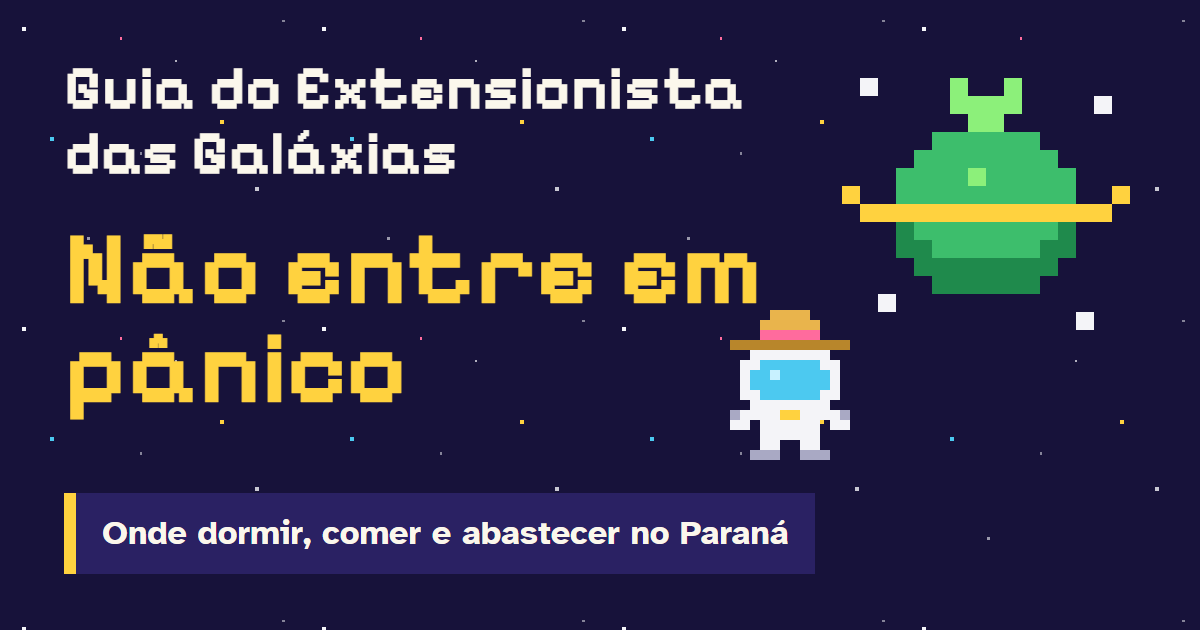
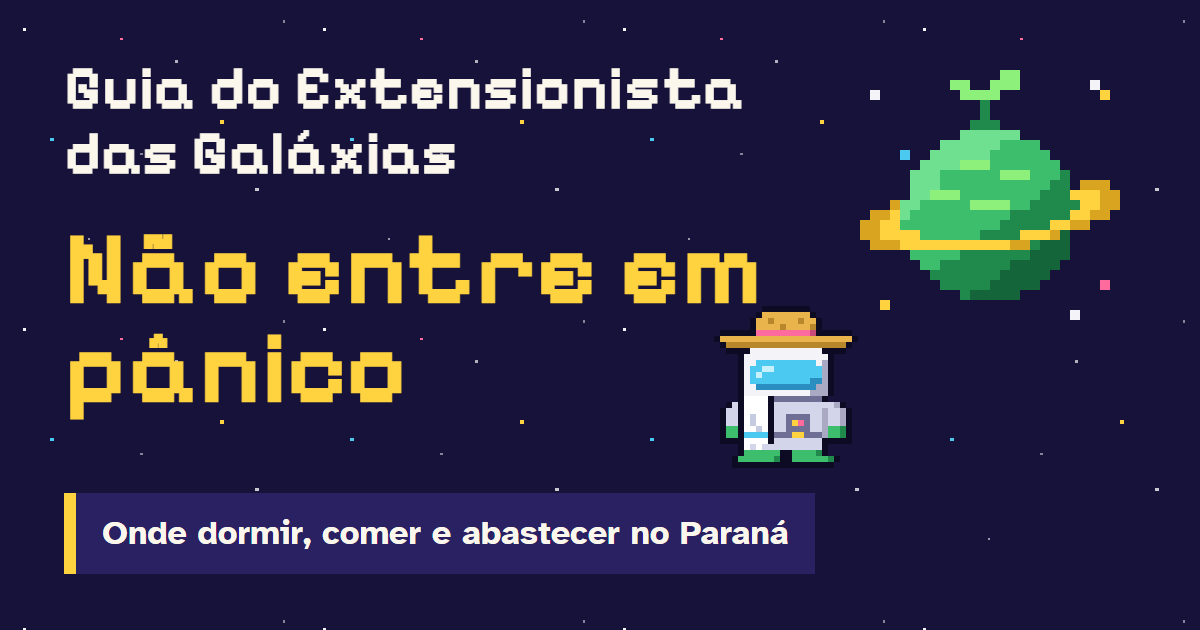
feat: pixel art em grade maior e toalha branca no ombro do extensionista

diff --git a/build/og.html b/build/og.html
@@ -13,8 +13,8 @@
   body:not(.icone) .so-icone { display: none; }
   .so-icone img { width: 512px; height: 512px; display: block; }
   .og { position: absolute; inset: 0; padding: 56px 64px; }
-  .planeta-og { position: absolute; right: 70px; top: 60px; width: 288px; height: 288px; }
-  .mascote-og { position: absolute; right: 330px; top: 300px; width: 160px; height: 160px; }
+  .planeta-og { position: absolute; right: 70px; top: 60px; width: 280px; height: 280px; }
+  .mascote-og { position: absolute; right: 330px; top: 300px; width: 168px; height: 168px; }
   h1 { margin: 0; font-family: "Pixelify Sans"; font-size: 62px; line-height: 1.05; color: #fbf7ec; max-width: 760px; }
   .grande { margin: 34px 0 0; font-family: "Pixelify Sans"; font-size: 104px; line-height: 0.95; color: #ffd23f; max-width: 700px; }
   .lema-og { position: absolute; left: 64px; bottom: 56px; margin: 0; font-family: "Atkinson Hyperlegible"; font-weight: 700; font-size: 34px; color: #fbf7ec; background: #2a2163; border-left: 12px solid #ffd23f; padding: 16px 26px; }

diff --git a/style.css b/style.css
@@ -164,7 +164,7 @@ dialog fieldset.estrelas { display: flex; gap: 4px; border: 0; padding: 0; }
 .lugar blockquote { margin: 6px 0; padding: 6px 10px; border-left: var(--px) solid var(--ceu); }
 
 .vazio { background: var(--nebulosa); padding: 20px 16px; margin-top: 16px; clip-path: var(--pixel); display: grid; grid-template-columns: 64px 1fr; gap: 6px 14px; align-items: center; }
-.vazio img { width: 64px; height: 64px; grid-row: span 2; }
+.vazio img { width: 56px; height: 56px; grid-row: span 2; }
 .vazio h2 { margin: 0; font-family: var(--titulo); font-size: 1.25rem; color: var(--estrela); }
 .vazio p { margin: 0; }
 .vazio .botao { grid-column: 1 / -1; margin-top: 8px; }

diff --git a/index.html b/index.html
@@ -6,7 +6,7 @@
 <title>Guia do Extensionista das Galáxias</title>
 <meta name="description" content="Não entre em pânico: tem onde dormir, comer e abastecer em viagem pelo Paraná. Lista por município, indicada e avaliada por colegas.">
 <meta name="theme-color" content="#17123a">
-<link rel="icon" href="assets/logo.svg" type="image/svg+xml">
+<link rel="icon" href="assets/favicon.svg" type="image/svg+xml">
 <link rel="apple-touch-icon" href="assets/icone-180.png">
 <link rel="manifest" href="manifest.webmanifest">
 <meta property="og:type" content="website">

diff --git a/build/sprites.py b/build/sprites.py
@@ -1,7 +1,7 @@
 """Pixel art do Guia do Extensionista das Galáxias, desenhada em texto e exportada como SVG.
 
 Cada caractere é um pixel; "." é transparente e "x" usa a cor do texto (currentColor).
-Uso: py -3 build/sprites.py  ->  assets/sprites.svg, assets/logo.svg, assets/mascote.svg
+Uso: py -3 build/sprites.py  ->  assets/sprites.svg, assets/logo.svg, assets/favicon.svg, assets/mascote.svg
 """
 from __future__ import annotations
 
@@ -22,10 +22,53 @@ CORES = {
     "h": "#e9b44c",  # chapéu de palha
     "H": "#b8862b",  # aba do chapéu
     "p": "#ff6b9d",  # fita do chapéu
+    "P": "#c94a78",  # sombra da fita
+    "J": "#b8862b",  # trama da palha
+    "o": "#0d0a24",  # contorno
+    "a": "#d3d6ea",  # traje (corpo)
+    "k": "#6f6f95",  # gola, cinto e painel
+    "V": "#2a8fc0",  # sombra do visor
+    "W": "#ffffff",  # toalha
+    "t": "#c5cbe0",  # dobra da toalha
+    "G": "#6fe08f",  # luz do planeta
+    "D": "#14663a",  # sombra funda do planeta
+    "Y": "#d9a520",  # sombra do anel
 }
 
-# Planeta com anel e um broto no polo norte: o planeta do extensionista.
+# Planeta com anel e um broto no polo norte: o planeta do extensionista (28x28, 2 px de tela por pixel no cabeçalho).
 PLANETA = """
+............................
+...............ss...........
+..........ss..sss.......w...
+..w........ssss..........y..
+.............d..............
+.............d..............
+............ddd.............
+...........GGGGGG...........
+.........GGGGGGgggg.........
+.....v..GGGGGGgggggg........
+.......GGGGsssggggggg.......
+......GGGggggggsssgggd......
+......GGGgggggggggggdd.YYY..
+......GGsssggggggggdddyyyYY.
+....YGGgggggssssggdddddyyYY.
+..YYyGggggggggggddddddyyYY..
+.YYyyggggggggggdddddyyYY....
+.YYyyyyggggggddddyyyYD......
+..YYYyyyyyyyyyyyYYdDDD......
+......gggggdddddddDDDD......
+.......ggdddddddDDDDD.......
+........dddddddDDDDD........
+.........dddddDDDDD......p..
+...........dDDDDD...........
+...y........................
+......................w.....
+............................
+............................
+"""
+
+# Versão 16x16 do planeta, só para o favicon: cada pixel cai certinho na aba do navegador.
+FAVICON = """
 ................
 .w....s..s......
 ......ssss....w.
@@ -44,24 +87,36 @@ y..gggggggggg..y
 ................
 """
 
-# Astronauta de chapéu de palha: o extensionista em missão.
+# Astronauta de chapéu de palha com a toalha branca no ombro: o extensionista em missão, e sem pânico.
 MASCOTE = """
-................
-......hhhh......
-.....hhhhhh.....
-.....pppppp.....
-..HHHHHHHHHHHH..
-....wwwwwwww....
-...wwvvvvvvww...
-...wvvlvvvvvw...
-...wvvvvvvvvw...
-...wwvvvvvvww...
-....wwwwwwww....
-..cwwwwyywwwwc..
-..ww.wwwwww.ww..
-.....wwwwww.....
-.....ww..ww.....
-....ccc..ccc....
+............................
+..........oooooooo..........
+.........ohhhhhhhho.........
+........ohhJhhhhJhho........
+........ohhhhJhhhhJo........
+...oooooopppppppppPoooooo...
+..ohhhhhhhhhhhhhhhhhhhhhho..
+...oHHHHHHHHHHHHHHHHHHHHo...
+....oooowwwwwwwwwwwwoooo....
+......owwwwwwwwwwwwwwo......
+......owwvvvvvvvvvvwco......
+......owvvllvvvvvvvvco......
+......owvlvvvvvvvvvvco......
+......owvvvvvvvvvvVVco......
+......owwVVVVVVVVVVcco......
+......owwwwwwwwwwwccco......
+......oWWWWokkkkkkkko.......
+....oaoWWWWoaaaaaaaaaaco....
+...oaaoWWWWoaaaaaaaacaaco...
+...oaaoWtWWoaakkkkaacaaco...
+...oaaoWtWWoaakypkaacaaco...
+...oggoWWtWoaakkkkaacggdo...
+...oggovvvvokkkyykkkcggdo...
+...ooooWWWWoaaaaaaaaooooo...
+......oWaWaaaaaaaaaao.......
+......oggggggooggggdo.......
+.....oggggggdooggggggdo.....
+.....ooooooooooooooooo......
 """
 
 HOTEL = """
@@ -161,7 +216,8 @@ def main() -> None:
     (ASSETS / "sprites.svg").write_text(
         '<svg xmlns="http://www.w3.org/2000/svg">' + "".join(simbolos) + "</svg>\n", encoding="utf-8")
     (ASSETS / "logo.svg").write_text(arquivo(PLANETA, "Guia do Extensionista das Galáxias", CORES["n"]), encoding="utf-8")
-    (ASSETS / "mascote.svg").write_text(arquivo(MASCOTE, "Astronauta de chapéu de palha"), encoding="utf-8")
+    (ASSETS / "favicon.svg").write_text(arquivo(FAVICON, "Guia do Extensionista das Galáxias", CORES["n"]), encoding="utf-8")
+    (ASSETS / "mascote.svg").write_text(arquivo(MASCOTE, "Astronauta de chapéu de palha com uma toalha branca no ombro"), encoding="utf-8")
     print("sprites:", ", ".join(SPRITES))
 
 
